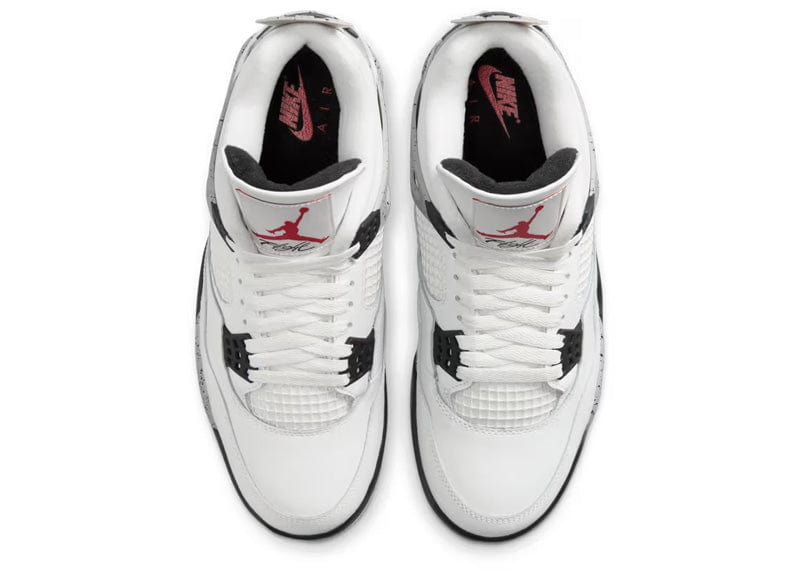
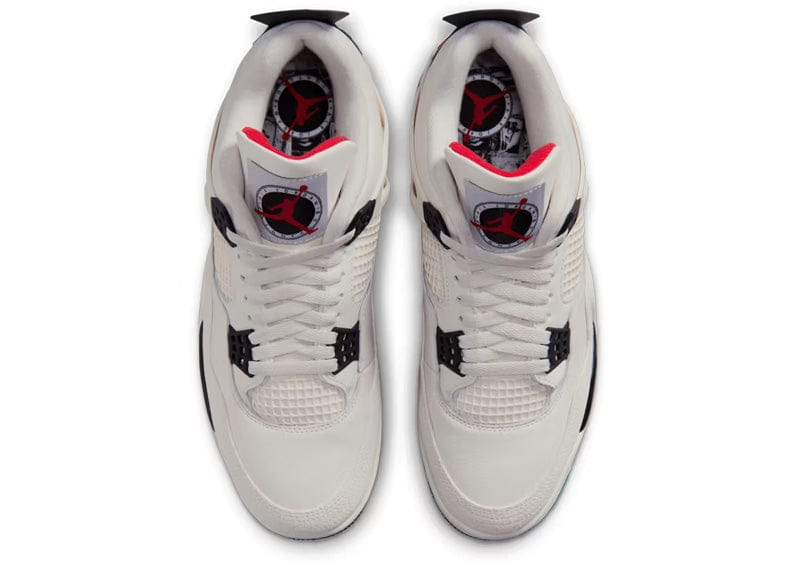
Fix Flight Club and Distant Regards images, show price under every size
- AJ4 Flight Club: correct Sail/Black/University Red colorway photos from
  Court Order, year (2026) added to product name
- NOCTA Distant Regards: correct graphic tee photos
- Product modal now shows the price in grey under every size button,
  not just sizes with price overrides

Claude-Session: https://claude.ai/code/session_018NjMznmUpzFZwrHQoKm7Be

diff --git a/js/app.js b/js/app.js
@@ -150,8 +150,7 @@ function renderModalSizes() {
     const b = document.createElement("button");
     b.className = "size-btn" + (modalSize === s.size ? " active" : "");
     b.disabled = left <= 0;
-    const meta = [];
-    if (s.price && s.price !== modalProduct.basePrice) meta.push(fmtR(s.price));
+    const meta = [fmtR(priceFor(modalProduct, s))];
     if (s.qty > 1) meta.push(`${left} left`);
     if (left <= 0) meta.length = 0, meta.push("in cart");
     b.innerHTML = `${s.size}${meta.length ? `<span class="size-meta">${meta.join(" · ")}</span>` : ""}`;

diff --git a/js/products.js b/js/products.js
@@ -156,7 +156,7 @@ const PRODUCTS = [
   {
     id: "aj4-flight-club",
     brand: "Jordan",
-    name: "Air Jordan 4 Flight Club",
+    name: "Air Jordan 4 Flight Club (2026)",
     basePrice: 4700,
     category: "sneakers",
     sizes: [

diff --git a/README.md b/README.md
@@ -59,8 +59,4 @@ Everything lives in `js/products.js`. Each product has:
 
 ## Image notes
 
-Product photos were pulled from Court Order (and StockX for three items they don't carry).
-
-⚠ **AJ4 "Flight Club"** — no colorway goes by that name, so the site currently shows **AJ4 White Cement (2025)** photos as a stand-in. If your batch is a different colorway, replace `images/products/aj4-flight-club-*.jpg`.
-
-Also double-check the **NOCTA Distant Regards tee** (showing the white Souvenir Cactus tee from that collection) and the **Dunk Low UV Reactive (GS)** (showing the Photon Dust/Midnight Navy pair) match what you have.
+Product photos were pulled from Court Order, with StockX/Santos x Shop fills for items they don't carry (UV Reactive Dunk, both QNTM Yeezys, Distant Regards tee).
